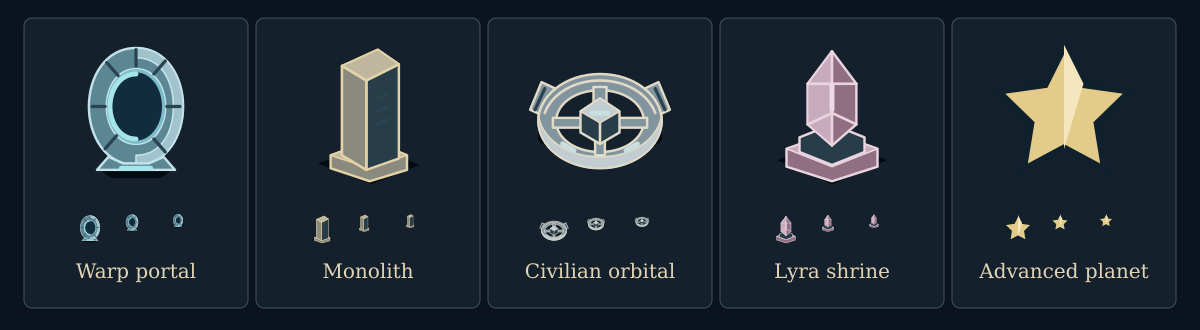
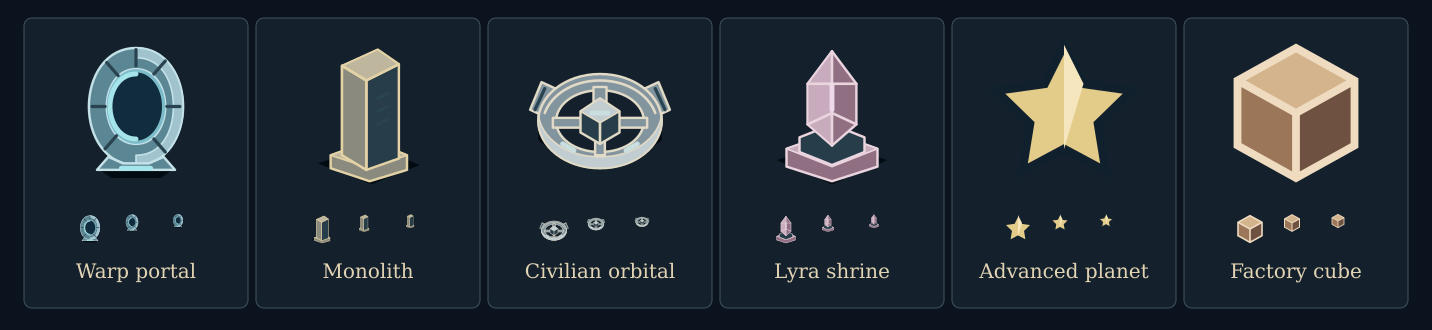
Give Bobiverse factories a shared faceted Materials cube
Use one attachment badge across the galaxy, fleet summaries, movement choices, combat targets and factory loading controls. Preserve the concurrent off-turn queue release and all factory rules.

Validation: fail-first integration coverage, 56 relevant tests, independent sizing review, lint and full build passed.

diff --git a/src/second-dawn-game/MovementPlanner.tsx b/src/second-dawn-game/MovementPlanner.tsx
@@ -1,3 +1,4 @@
+import FactoryBadge from './FactoryBadge';
 import {guildMovementTolls} from '../../shared/eclipse/scifiActions';
 import {getFaction} from '../../shared/eclipse/catalog';
 import ActionConfirmationNotice from './ActionConfirmationNotice';
@@ -54,7 +55,7 @@ export default function MovementPlanner({view,sourceSectorId,selectedTargetId,di
   {continuesAction(view,'move')&&<p className="dg-movement-capacity">{queued.remainingCapacity} {queued.remainingCapacity===1?'move':'moves'} left in this action</p>}
   <p className="dg-movement-steps">{routeMode?'1 Select ships · 2 Choose a sector on the galaxy · 3 Queue route · 4 Execute':'1 Select ships · 2 Choose a sector on the galaxy · 3 Confirm'}</p>
   <p>{activations} / {queued.remainingCapacity} move activations selected{source&&plan.leaveCapacity<plan.ships.length?` · ${plan.leaveCapacity} ships can leave without being pinned`:''}</p>
-  <div className="dg-movement-ships">{plan.ships.map(ship=>{const checked=ids.includes(ship.id);const locked=disabled||!!ship.reason||(!checked&&(ids.length>=queued.remainingCapacity||ids.length>=plan.leaveCapacity));return <label key={ship.id} className={`dg-movement-ship ${checked?'is-selected':''} ${locked?'is-unavailable':''}`}><input type="checkbox" checked={checked} disabled={locked} onChange={()=>toggle(ship.id)} aria-label={ship.label}/><ShipSilhouette type={ship.type} faction={view.seats.find(seat=>seat.id===view.viewerSeatId)?.faction}/><span><strong>{ship.label}</strong><small>{ship.range} {ship.range===1?'sector':'sectors'} per activation</small>{ship.reason&&<small className="dg-danger">{ship.reason}</small>}</span></label>;})}</div>
+  <div className="dg-movement-ships">{plan.ships.map(ship=>{const checked=ids.includes(ship.id);const locked=disabled||!!ship.reason||(!checked&&(ids.length>=queued.remainingCapacity||ids.length>=plan.leaveCapacity));return <label key={ship.id} className={`dg-movement-ship ${checked?'is-selected':''} ${locked?'is-unavailable':''}`}><input type="checkbox" checked={checked} disabled={locked} onChange={()=>toggle(ship.id)} aria-label={ship.label}/><ShipSilhouette type={ship.type} faction={view.seats.find(seat=>seat.id===view.viewerSeatId)?.faction}/><span><strong>{view.ships.find(candidate=>candidate.id===ship.id)?.factoryPopulation&&<FactoryBadge/>}{ship.label}</strong><small>{ship.range} {ship.range===1?'sector':'sectors'} per activation</small>{ship.reason&&<small className="dg-danger">{ship.reason}</small>}</span></label>;})}</div>
   {own.faction==='formics'&&!own.passed&&ids.map(leaderId=>{const leader=plan.ships.find(s=>s.id===leaderId);const escortType=leader?.type==='cruiser'?'interceptor':leader?.type==='dreadnought'?'cruiser':null;const escorts=escortsByLeader[leaderId]??[];return escortType?<fieldset key={leaderId}><legend>{leader?.label} convoy · up to 2 {escortType}s</legend>{plan.ships.filter(ship=>ship.type===escortType&&!ids.includes(ship.id)).map(ship=><label key={ship.id}><input type="checkbox" checked={escorts.includes(ship.id)} disabled={disabled||!!ship.reason||(!escorts.includes(ship.id)&&(escorts.length>=2||Object.values(escortsByLeader).some(group=>group.includes(ship.id))))} onChange={()=>setDraft({source:sourceSectorId,ids,escortsByLeader:{...escortsByLeader,[leaderId]:escorts.includes(ship.id)?escorts.filter(id=>id!==ship.id):[...escorts,ship.id]}})}/>{ship.label} · {ship.range} sectors</label>)}</fieldset>:null;})}
   {own.faction==='formics'&&<p>{own.passed?'Reaction: one ship, without escorts.':'Convoys share one activation. Escorts follow the leader’s path; no recursive escorts.'}</p>}
   {toll>0&&<p role="status">Guild transport fee: {toll} Money to {[...recipients].map(id=>getFaction(view.seats.find(s=>s.id===id)!.faction).name).join(', ')} · {own.resources.money-toll} Money remaining after transport. Each passenger pays once per Move action.</p>}

diff --git a/src/second-dawn-game/FactionAbilityControls.tsx b/src/second-dawn-game/FactionAbilityControls.tsx
@@ -1,3 +1,4 @@
+import FactoryBadge from './FactoryBadge';
 import {previewCommand} from '../../shared/eclipse/commandPreview';
 import {paidActivationCost} from '../../shared/eclipse/rulesState';
 import type {Action,GameCommand,PlayerView} from '../../shared/eclipse/types';
@@ -24,7 +25,7 @@ export default function FactionAbilityControls({view,candidates,disabled,onSubmi
  if(!conversions.length&&!mixed&&!midas&&!factories.length&&!portals.length&&!own.scifi?.reverseEngineeringProject)return null;
  const cost=progress?paidActivationCost(own,progress.action):null;
  return <section className="dg-faction-ability-controls" aria-label="Faction abilities"><FactionSymbol faction={own.faction}/>
-  {factories.length>0&&<div><strong>Autofactories · {own.colonyShipsAvailable} colony ships available</strong><small>Load a Materials cube onto an Interceptor in controlled territory. Production continues wherever it moves; its firing opponent can target it normally.</small><div className="dg-ability-options">{factories.map(command=>{const ship=view.ships.find(s=>s.id===command.shipId);const sector=view.sectors.find(s=>s.id===ship?.sectorId);return <button key={command.shipId} disabled={disabled} onClick={()=>onSubmit(command)}>Load factory · {command.shipId} · sector {sector?.tileId}</button>;})}</div></div>}
+  {factories.length>0&&<div><strong>Autofactories · {own.colonyShipsAvailable} colony ships available</strong><small>Load a Materials cube onto an Interceptor in controlled territory. Production continues wherever it moves; its firing opponent can target it normally.</small><div className="dg-ability-options">{factories.map(command=>{const ship=view.ships.find(s=>s.id===command.shipId);const sector=view.sectors.find(s=>s.id===ship?.sectorId);return <button key={command.shipId} disabled={disabled} onClick={()=>onSubmit(command)}><FactoryBadge/>Load factory · {command.shipId} · sector {sector?.tileId}</button>;})}</div></div>}
   {portals.length>0&&<div><strong>Guild portals · {own.scifi?.guildPortalMarkers??0} markers left</strong><small>Permanent placement. Foreign portal users pay 1 Money per ship per Move action.</small><div className="dg-ability-options">{portals.map(command=><button key={command.sectorId} disabled={disabled} onClick={()=>onSubmit(command)}>Place portal · sector {view.sectors.find(s=>s.id===command.sectorId)?.tileId}</button>)}</div></div>}
   {own.scifi?.reverseEngineeringProject&&<div><strong>Reverse engineering · {TECHNOLOGIES.find(t=>t.id===own.scifi?.reverseEngineeringProject?.id)?.name??SHIP_PARTS.find(t=>t.id===own.scifi?.reverseEngineeringProject?.id)?.name??own.scifi.reverseEngineeringProject.id}</strong><small>Completing this project uses Science and one Research activation.</small><div className="dg-ability-options">{projects.map(command=><button key={command.track} disabled={disabled} onClick={()=>onSubmit(command)}>Complete project · {command.track} · {own.resources.science-previewCommand(view,command).resourcesAfter.science} Science</button>)}{!projects.length&&<small>Start Research with sufficient Science and an eligible track to complete this project.</small>}</div></div>}
   {conversions.length>0&&<div><strong>Use 1 colony ship</strong><small>Flip an unused ship for a resource; it cannot colonize this round.</small><div className="dg-ability-options">{conversions.map(command=><button type="button" key={command.resource} disabled={disabled} aria-label={`Gain 1 ${command.resource} · use 1 colony ship`} onClick={()=>onSubmit(command)}><TradeResourceIcon resource={command.resource}/><span>+1 {name(command.resource)}</span></button>)}</div></div>}

diff --git a/src/second-dawn-game/SectorFleet.tsx b/src/second-dawn-game/SectorFleet.tsx
@@ -1,3 +1,4 @@
+import FactoryBadge from './FactoryBadge';
 import {seatColor} from './factionColors';
 import type {PublicGameView,Ship} from '../../shared/eclipse/types';
 import {getFaction} from '../../shared/eclipse/catalog';
@@ -17,9 +18,10 @@ export default function SectorFleet({view,sectorId,onInspect}:Props){
  return <div className="dg-sector-fleet">{onInspect&&<button onClick={onInspect}>Inspect fleet</button>}{groups.map(group=>{
   const seat=view.seats.find(s=>s.id===group.owner);const faction=seat?getFaction(seat.faction):undefined;
   const owner=faction?.name ?? (group.type==='ancient'?'Ancients':group.type==='guardian'?'Guardians':'Galactic Center Defense System');
+  const factories=group.ships.filter(ship=>ship.factoryPopulation).length;
   const name=group.ships[0].orbitalShip?'Orbital':names[group.type],count=group.ships.length;
-  return <div className="dg-fleet-group" style={{borderColor:seat?seatColor(seat):undefined,color:seat?seatColor(seat):undefined}} role="group" aria-label={`${owner} · ${count} ${name}${count>1?'s':''}`} key={`${group.owner}-${group.type}`}>
-   <div className="dg-fleet-group-main"><span className="dg-fleet-figure">{group.type==='ancient'||group.type==='guardian'||group.type==='gcds'?<NeutralShipSilhouette type={group.type}/>:<ShipSilhouette type={group.type} faction={faction?.id}/>}</span><div><strong>{name}{count>1?'s':''}</strong><small>{faction&&<FactionSymbol faction={faction.id}/>} {owner}</small></div><b className="dg-fleet-count" aria-label={`${count} ships`}>×{count}</b></div>
+  return <div className="dg-fleet-group" style={{borderColor:seat?seatColor(seat):undefined,color:seat?seatColor(seat):undefined}} role="group" aria-label={`${owner} · ${count} ${name}${count>1?'s':''}${factories?`, ${factories} Materials ${factories===1?'factory':'factories'}`:''}`} key={`${group.owner}-${group.type}`}>
+   <div className="dg-fleet-group-main"><span className="dg-fleet-figure">{group.type==='ancient'||group.type==='guardian'||group.type==='gcds'?<NeutralShipSilhouette type={group.type}/>:<ShipSilhouette type={group.type} faction={faction?.id}/>}</span><div><strong>{name}{count>1?'s':''}</strong><small>{faction&&<FactionSymbol faction={faction.id}/>} {owner}</small>{factories>0&&<small className="dg-factory-status"><FactoryBadge/>{factories} Materials {factories===1?'factory':'factories'}</small>}</div><b className="dg-fleet-count" aria-label={`${count} ships`}>×{count}</b></div>
    {group.ships.some(s=>s.damage>0)&&<details><summary>Damage details</summary>{group.ships.map((ship,index)=><p key={ship.id}>{name} {index+1} · {ship.damage} damage</p>)}</details>}
   </div>;
  })}</div>;

diff --git a/src/__tests__/second_dawn_factory_art.spec.tsx b/src/__tests__/second_dawn_factory_art.spec.tsx
@@ -1,0 +1,29 @@
+import {afterEach,expect,it} from 'vitest';
+import {cleanup,render,screen} from '@testing-library/react';
+import {createGame} from '../../shared/eclipse/setup';
+import {getPlayerView} from '../../shared/eclipse/protocol';
+import GalaxyBoard from '../second-dawn-game/GalaxyBoard';
+import SectorFleet from '../second-dawn-game/SectorFleet';
+import MovementPlanner from '../second-dawn-game/MovementPlanner';
+import {CombatTargetCards} from '../second-dawn-game/CombatDecisionVisuals';
+
+afterEach(cleanup);
+it('keeps a loaded factory cube visible on the map and through fleet, movement and combat inspection',()=>{
+ const state=createGame({seed:4,factionProfile:'scifi-v1',seats:[{id:'a',faction:'bobiverse',controller:'human'},{id:'b',faction:'hydran',controller:'human'}]});
+ const ship=state.ships.find(ship=>ship.owner==='a')!;ship.factoryPopulation=true;
+ const view=getPlayerView(state,'a')!;
+ for(const component of [
+  <GalaxyBoard key="map" view={view} candidates={[]} selected={ship.sectorId} onSelect={()=>{}} onExplore={()=>{}}/>,
+  <SectorFleet key="fleet" view={view} sectorId={ship.sectorId}/>,
+  <MovementPlanner key="movement" view={view} sourceSectorId={ship.sectorId} selectedTargetId={null} disabled={false} onTargetsChange={()=>{}} onClose={()=>{}} onSubmit={()=>{}}/>,
+  <CombatTargetCards key="combat" view={view} targets={[ship.id]} targetLabels={{[ship.id]:'Interceptor 1'}} selected="" onSelect={()=>{}}/>,
+ ]){
+  const {container,unmount}=render(component);
+  expect(container.querySelector('svg[data-attachment="materials-factory"]')).not.toBeNull();
+  if(component.key==='fleet')expect(screen.getByText('1 Materials factory')).toBeVisible();
+  unmount();
+ }
+ ship.factoryPopulation=false;
+ const {container}=render(<SectorFleet view={getPlayerView(state,'a')!} sectorId={ship.sectorId}/>);
+ expect(container.querySelector('[data-attachment="materials-factory"]')).toBeNull();
+});

diff --git a/src/second-dawn-game/GalaxyBoard.tsx b/src/second-dawn-game/GalaxyBoard.tsx
@@ -1,3 +1,4 @@
+import FactoryBadge from './FactoryBadge';
 import StructureSilhouette from './StructureSilhouette';
 import BuildPieceSilhouette from './BuildPieceSilhouette';
 import SectorFeatureIcon from './SectorFeatureIcon';
@@ -311,7 +312,7 @@ export default function GalaxyBoard({
                     <svg x="-20" y="-9" width="22" height="18" viewBox="0 0 24 24">
                       {group.type==='ancient'||group.type==='guardian'||group.type==='gcds'?<NeutralShipSilhouette type={group.type}/>:<ShipSilhouette type={group.type} faction={view.seats.find(seat=>seat.id===group.owner)?.faction}/>}
                     </svg>
-                    {factories>0&&<g transform="translate(-17 7)" role="img" aria-label={`${factories} Materials factories`}><rect width="6" height="6" x="-3" y="-3" fill="#e09462" stroke="#ffe5c4" strokeWidth=".7"/><title>{factories} productive Materials factories; select sector to inspect individual ships.</title></g>}<text x="9" y="3.5" textAnchor="middle" fill={info.color} className="dg-fleet-label">×{group.count}</text>
+                    {factories>0&&<g transform="translate(-17 7)" role="img" aria-label={`${factories} Materials factories`}><svg className="dg-map-factory-icon" x="-4" y="-4" width="8" height="8" viewBox="0 0 24 24"><FactoryBadge/></svg><title>{factories} productive Materials factories; select sector to inspect individual ships.</title></g>}<text x="9" y="3.5" textAnchor="middle" fill={info.color} className="dg-fleet-label">×{group.count}</text>
                     <title>{info.name}: {group.count} {name}{group.count>1?'s':''}. Select sector to inspect fleet.</title>
                   </g>;
                 })}

diff --git a/src/second-dawn-game/CombatDecisionVisuals.tsx b/src/second-dawn-game/CombatDecisionVisuals.tsx
@@ -1,3 +1,4 @@
+import FactoryBadge from './FactoryBadge';
 import { researchedTechnologyIds } from '../../shared/eclipse/technologies';
 import { getFaction, type FactionId } from "../../shared/eclipse/catalog";
 import { deriveBlueprintStats, neutralBlueprint } from "../../shared/eclipse/blueprints";
@@ -162,7 +163,7 @@ function ShipCard({
       <span className="dg-combat-card-copy">
         <strong>{name}</strong>
         {owner && <small>{owner}</small>}
-        {ship && <small>{condition}</small>}{ship?.factoryPopulation&&<small>Materials factory · cube returns if destroyed</small>}
+        {ship && <small>{condition}</small>}{ship?.factoryPopulation&&<small className="dg-factory-status"><FactoryBadge/>Materials factory · cube returns if destroyed</small>}
       </span>
       <span className="dg-combat-hit-mark" aria-hidden="true">{hit === false ? "MISS" : selected ? "TARGET" : ""}</span>
     </button>

diff --git a/src/second-dawn-game/factoryBadge.css b/src/second-dawn-game/factoryBadge.css
@@ -1,0 +1,10 @@
+.dg-factory-badge{flex:none;overflow:visible}
+.dg-factory-cube-left{fill:#9b7659}
+.dg-factory-cube-right{fill:#6e5141}
+.dg-factory-cube-top{fill:#d4b48c}
+.dg-factory-cube-edge{fill:none;stroke:#efdbc0;stroke-width:1.2;stroke-linejoin:round;stroke-linecap:round}
+.dg-map-fleet-card .dg-factory-badge{width:24px;height:24px}
+.dg-map-fleet-card .dg-map-factory-icon{width:8px;height:8px}
+.dg-factory-status{display:inline-flex;align-items:center;gap:5px}
+.dg-factory-status>.dg-factory-badge,.dg-movement-ship strong>.dg-factory-badge{width:16px;height:16px;vertical-align:middle}
+.dg-movement-ship strong>.dg-factory-badge{display:inline-block;margin-right:5px}

diff --git a/src/second-dawn-game/FactoryBadge.tsx b/src/second-dawn-game/FactoryBadge.tsx
@@ -1,0 +1,11 @@
+import './factoryBadge.css';
+
+/** A loaded Materials population cube, attached to an ordinary interceptor. */
+export default function FactoryBadge() {
+ return <svg className="dg-factory-badge" width="24" height="24" viewBox="0 0 24 24" aria-hidden="true" data-attachment="materials-factory">
+  <path className="dg-factory-cube-left" d="M3 7 12 12v10L3 17Z"/>
+  <path className="dg-factory-cube-right" d="m12 12 9-5v10l-9 5Z"/>
+  <path className="dg-factory-cube-top" d="m3 7 9-5 9 5-9 5Z"/>
+  <path className="dg-factory-cube-edge" d="M3 7v10l9 5 9-5V7l-9-5Z M3 7l9 5 9-5 M12 12v10"/>
+ </svg>;
+}

diff --git a/coding_agents/second_dawn_structure_art.md b/coding_agents/second_dawn_structure_art.md
@@ -32,4 +32,14 @@ Release integration: the concurrent science-fiction faction release reached main
 
 Production: 607939e deployed successfully to the intended obleton-adrian project (96BSum1fJR4heC9qX8tbHTNVfNBY). Live Lyra Research showed shared Shrine SVGs at 22×24 / 28×30 and the shared advanced badges, with no page overflow; Build showed civilian Orbital/Monolith art. Live review prompted a small CSS refinement to align the Shrine heading and separate button identity from placement cost.
 
-New-faction audit: Bobiverse's factory marker is a flat Materials square attached to its interceptor. A shared faceted cube attachment badge is a useful subsequent polish item; SectorFleet lacks factory status, while movement/combat use text. Guild portals now share the portal piece, and new faction emblems/ships, reservations and reverse-engineering use the existing visual systems. No factory artwork replacement is included in this release.
+New-faction audit: Bobiverse's factory marker was a flat Materials square attached to its interceptor; SectorFleet lacked factory status, while movement/combat used text. Guild portals share the portal piece, and new faction emblems/ships, reservations and reverse-engineering use the existing visual systems.
+
+## Bobiverse cube follow-up
+
+The user authorized the faceted cube on October 9. Outcome: a shared Materials cube badge keeps loaded factory interceptors recognizable on the map, in sector fleet summaries, movement choices, combat target cards and loading controls. The cube remains an onboard attachment. Factory loading, targeting, production and cube return rules are unchanged.
+
+Acceptance: explicit factory counts and labels; ordinary unloaded ships have no badge; restrained Materials tones and light edges match the physical pieces. Public props remain typed, no new state/effects/fetches. Independent review found and resolved inherited map SVG sizing: outer factory viewport is 8×8 with an inner 24-unit badge. Small status badges use 16px and loading controls use 22px.
+
+Validation: new cross-context integration test failed first, then 53 unique tests across seven relevant factory, fleet, movement, sci-fi UI/battle and combat suites passed. Lint and full build passed; compiled CSS includes the explicit 8px map wrapper. Updated six-piece lineup rendered and reviewed. Production release and live cube sizing checks follow.
+
+Concurrent release integration: preserved main's off-turn queued action release (9e7ccb9); no queue or engine behavior changes. The merged factory release passed 56 tests across eight factory/fleet/movement/combat/sci-fi UI/queue suites, lint and full build.
